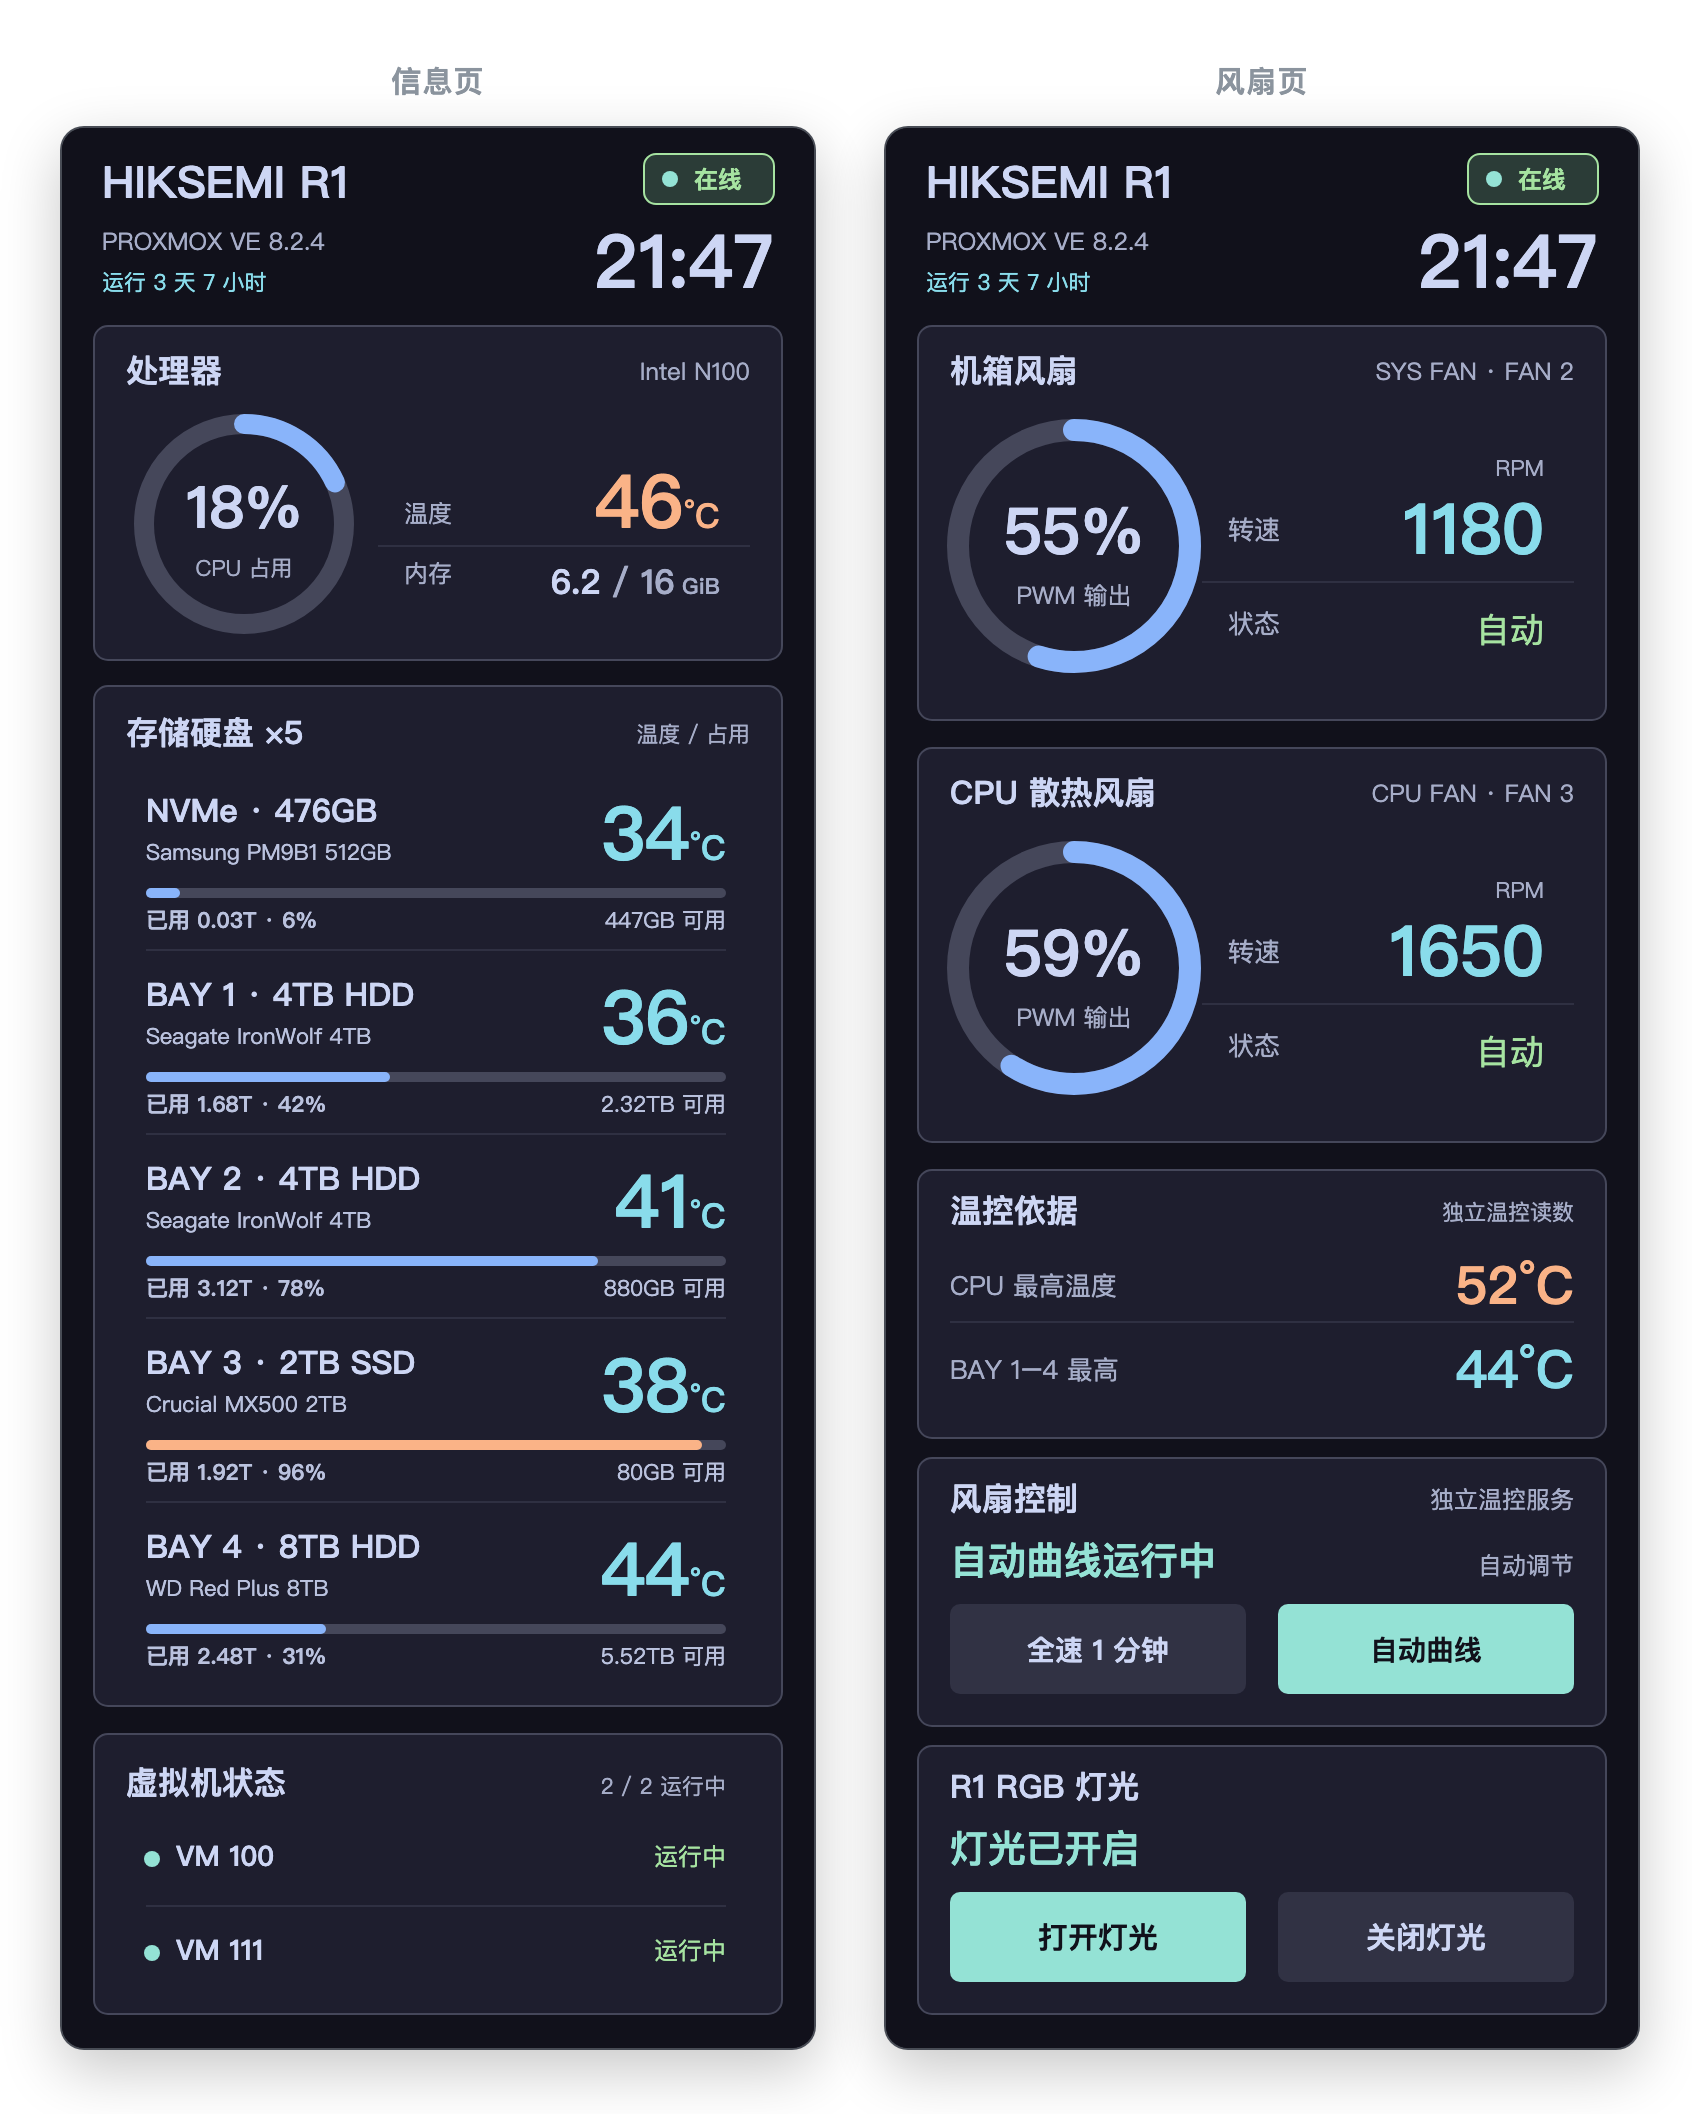
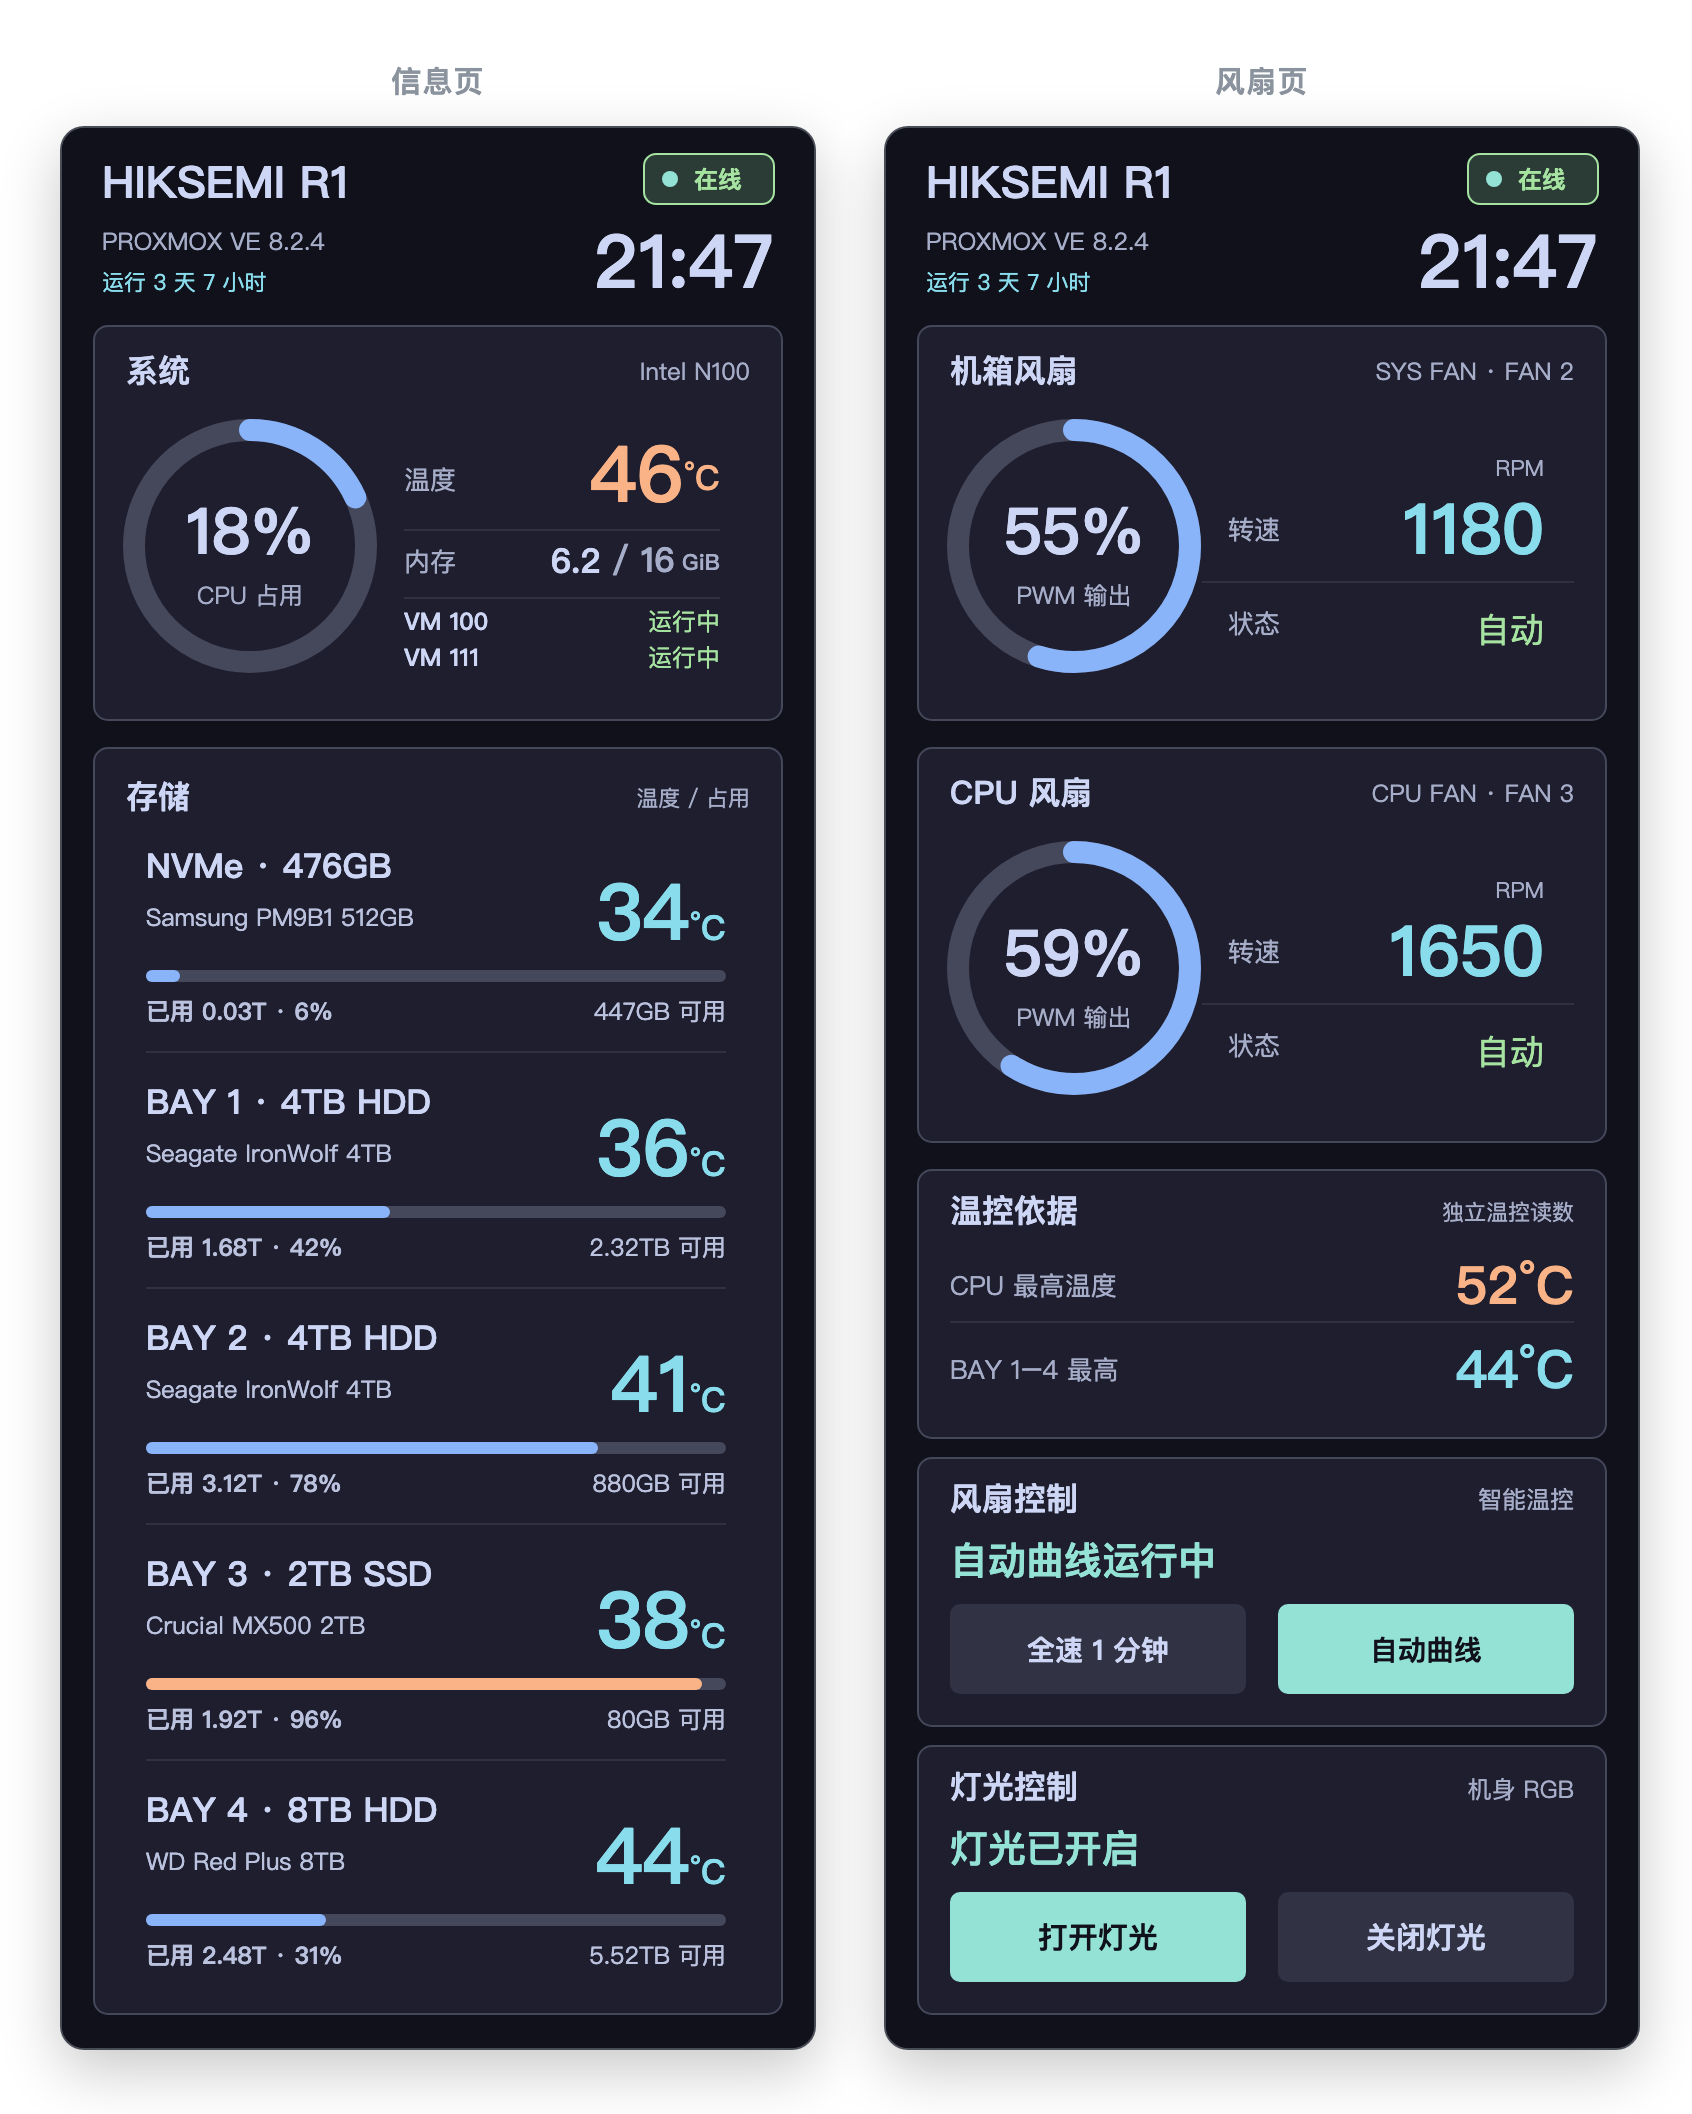
docs: 预览图改用 Web 布局（CPU 与虚拟机合并卡片） (#6)
上一版误用了实体屏模板 r1_web_information.svg，该模板的虚拟机仍是
底部独立「虚拟机状态」卡片；当前界面用的是 r1_web_information_web.svg，
CPU 与 VM 已合并进「系统」卡片，存储卡片标题为「存储」。

- 重新以 web_layout=True 渲染两页并替换 docs/images/preview.png
- README 图注改为说明取自 Web 管理页布局

diff --git a/README.md b/README.md
@@ -4,7 +4,7 @@
 
 ![信息页与风扇页](docs/images/preview.png)
 
-<sub>图中为模拟数据，默认 Mocha 主题，由仓库内的 SVG 模板（`r1_web_information.svg` / `r1_web_fans.svg`）经 `r1_web_views.py` 渲染，非实机截图。</sub>
+<sub>图中为模拟数据，默认 Mocha 主题，取自 Web 管理页的「信息页 / 风扇页」布局，由仓库内 SVG 模板渲染，非实机截图。</sub>
 
 ---
 
